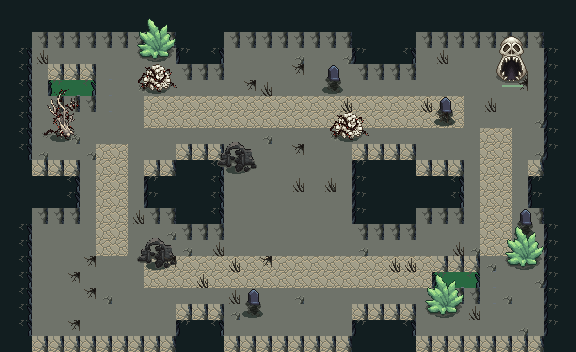
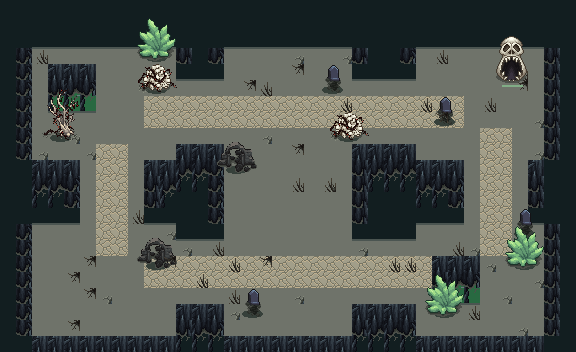
Keep pool effects within collision bounds and connect native cliff faces

diff --git a/test_app.py b/test_app.py
@@ -392,14 +392,22 @@ class RoguelikeGameTests(unittest.TestCase):
         self.assertEqual(result['damage_dealt'],2)
 
     def test_pixel_styles_are_versioned_for_deployments(self):
-        import hashlib
-        css = b''.join((Path(__file__).parent/'static'/name).read_bytes() for name in ('pixel.css','combat.js','assets/pixel/manifest.json'))
-        revision = hashlib.sha256(css).hexdigest()[:12]
-        page = self.client.get('/').get_data(as_text=True)
-        url = f'/static/pixel.css?v={revision}'
-        self.assertIn(url,page)
-        with self.client.get(url) as response:
+        import re,io,builtins
+        page=self.client.get('/').get_data(as_text=True)
+        revision=re.search(r'/static/pixel.css\?v=([0-9a-f]{12})',page).group(1)
+        self.assertIn(f'/static/combat.js?v={revision}',page)
+        with self.client.get(f'/static/pixel.css?v={revision}') as response:
             self.assertEqual(response.status_code,200)
+        # An artwork-only update must invalidate the same revision too.
+        original_open=builtins.open
+        def changed_art(path,*args,**kwargs):
+            if str(path).endswith('level-06.png'):
+                with original_open(path,'rb') as image:return io.BytesIO(image.read()+b'changed-art')
+            return original_open(path,*args,**kwargs)
+        with patch('app.open',side_effect=changed_art,create=True):
+            updated=self.client.get('/').get_data(as_text=True)
+        updated_revision=re.search(r'/static/pixel.css\?v=([0-9a-f]{12})',updated).group(1)
+        self.assertNotEqual(revision,updated_revision)
 
     def test_portal_and_battle_art_share_map_enemies(self):
         from pathlib import Path

diff --git a/scripts/build_craftpix_stages.py b/scripts/build_craftpix_stages.py
@@ -53,6 +53,7 @@ def build_stages(packs):
     for px in range(x*16,(x+w)*16,32):
      ripple=water.crop((0,0,32,16))
      if theme: ripple=ImageEnhance.Color(ripple).enhance(.15)
+     ripple=ripple.crop((0,0,min(32,(x+w)*16-px),min(16,(y+h)*16-py)))
      canvas.alpha_composite(ripple,(px,py))
   # Edge tiles on blocked cells make the walking boundaries visible. Dungeon
   # uses stone; outdoors uses the pack's cliff faces and broken root edges.
@@ -67,10 +68,18 @@ def build_stages(packs):
      canvas.alpha_composite(tile,(x*16,y*16))
      if neighbours[0]:draw.line((x*16,y*16+15,x*16+15,y*16+15),fill='#292b40',width=2)
     else:
-     if neighbours[1]:tile=cell(sheet,7,9 if theme==1 else 4)
-     elif neighbours[0]:tile=cell(sheet,7,1 if theme==1 else 0)
-     else:tile=cell(sheet,5 if neighbours[2] else 8,3 if theme==1 else 4)
-     canvas.alpha_composite(tile,(x*16,y*16))
+     if neighbours[1]:
+      # Three native cliff/root pieces form a connected drop below the floor.
+      for depth in range(3):
+       if y+depth>=HEIGHT or floor(x,y+depth):break
+       tile=cell(sheet,16 if theme==1 else 8,(1+depth) if theme==1 else (4+depth))
+       canvas.alpha_composite(tile,(x*16,(y+depth)*16))
+     elif neighbours[0]:
+      # A narrow dark rim does not pretend to be another walkable floor tile.
+      draw.line((x*16,y*16+15,x*16+15,y*16+15),fill=('#4b5551','#653530')[theme-1],width=2)
+     else:
+      tile=cell(sheet,5 if neighbours[2] else 9,2 if theme==1 else 4)
+      canvas.alpha_composite(tile,(x*16,y*16))
   # Dress the dungeon walls with alcoves, door niches, sacks and treasures.
   if theme==0:
    arch=sheet.crop((48,288,80,336))

diff --git a/app.py b/app.py
@@ -1006,7 +1006,11 @@ def index():
         pixel_assets = json.load(asset_file)
     with open(os.path.join(app.static_folder, "pixel.css"), "rb") as css_file:
         revision_bytes = css_file.read()
-    for filename in ("combat.js", "assets/pixel/manifest.json"):
+    # Art-only deployments also invalidate phone/browser image caches.
+    revision_files = ["combat.js", "assets/pixel/manifest.json"]
+    revision_files += [f"assets/pixel/level-{stage:02}.png" for stage in range(1,16)]
+    revision_files += [f"assets/pixel/battle-{theme}.png" for theme in range(1,4)]
+    for filename in revision_files:
         with open(os.path.join(app.static_folder, filename), "rb") as revision_file:
             revision_bytes += revision_file.read()
     pixel_revision = hashlib.sha256(revision_bytes).hexdigest()[:12]
